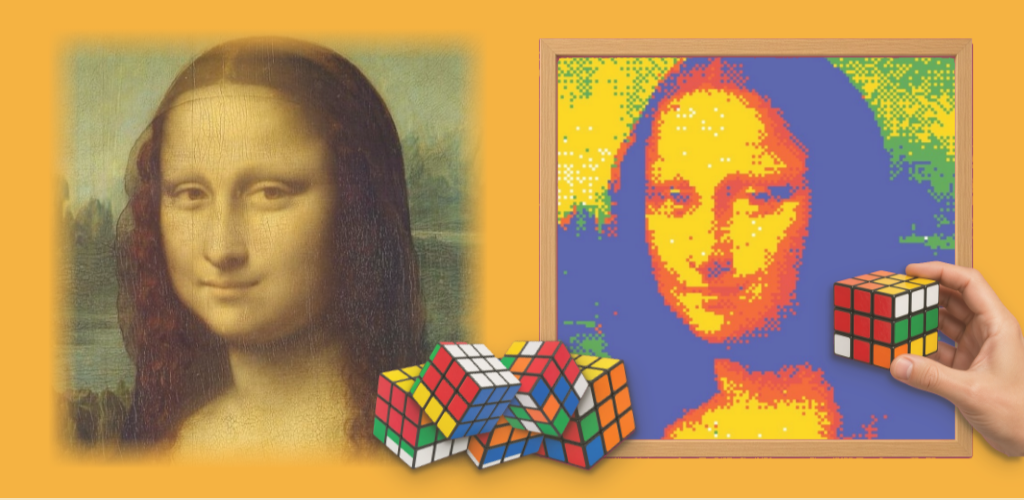
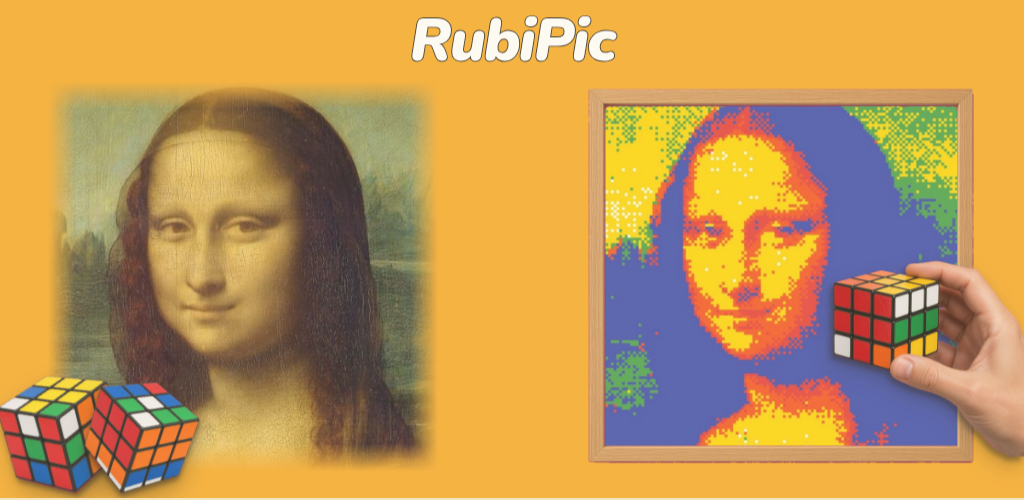
Tighten feature graphic: two cubes in the corner, RubiPic title
Reduce the cube pile from five to two, pin them to the bottom-left of
the 1024×500 board, and add a medium Nunito wordmark at the top.
Re-export the English feature PNG and contact sheet.

diff --git a/googleplay.html b/googleplay.html
@@ -23,7 +23,7 @@
 <link rel="preconnect" href="https://fonts.gstatic.com" crossorigin>
 <link href="https://fonts.googleapis.com/css2?family=Nunito:ital,wght@1,800;1,900&family=Quicksand:wght@500;600;700&display=swap" rel="stylesheet">
 
-<link rel="stylesheet" href="assets/css/styles.css?v=gp46">
+<link rel="stylesheet" href="assets/css/styles.css?v=gp47">
 </head>
 <body data-title-key="googleplay.meta.title" data-desc-key="googleplay.meta.description">
 
@@ -188,6 +188,7 @@
         </div>
 
         <div class="gp-feature gp-feature--empty" aria-label="Grafika funkcji RubiPic 1024 na 500 pikseli">
+          <p class="gp-empty-wordmark">RubiPic</p>
           <button type="button" id="gp-layer-photo" class="gp-empty-layer gp-empty-photo" aria-label="Zdjęcie źródłowe">
             <img src="assets/googleplay/layers/photo-mona.jpg?v=gp30" alt="">
           </button>
@@ -204,15 +205,6 @@
           </button>
           <button type="button" id="gp-layer-cube-b" class="gp-empty-layer gp-empty-cube gp-empty-cube--b" aria-label="Kostka Rubika B">
             <img src="assets/googleplay/layers/cube-b.png?v=gp17" alt="">
-          </button>
-          <button type="button" id="gp-layer-cube-c" class="gp-empty-layer gp-empty-cube gp-empty-cube--c" aria-label="Kostka Rubika C">
-            <img src="assets/googleplay/layers/cube-c.png?v=gp17" alt="">
-          </button>
-          <button type="button" id="gp-layer-cube-d" class="gp-empty-layer gp-empty-cube gp-empty-cube--d" aria-label="Kostka Rubika D">
-            <img src="assets/googleplay/layers/cube-d.png?v=gp17" alt="">
-          </button>
-          <button type="button" id="gp-layer-cube-e" class="gp-empty-layer gp-empty-cube gp-empty-cube--e" aria-label="Kostka Rubika E">
-            <img src="assets/googleplay/layers/cube-e.png?v=gp17" alt="">
           </button>
           <button type="button" id="gp-layer-hand" class="gp-empty-layer gp-empty-hand" aria-label="Dłoń z kostką Rubika">
             <img src="assets/googleplay/layers/hand-cube.png?v=gp17" alt="">
@@ -238,18 +230,6 @@
           <button type="button" data-gp-layer="gp-layer-cube-b">
             <img src="assets/googleplay/layers/cube-b.png?v=gp17" alt="">
             <span>Kostka B</span>
-          </button>
-          <button type="button" data-gp-layer="gp-layer-cube-c">
-            <img src="assets/googleplay/layers/cube-c.png?v=gp17" alt="">
-            <span>Kostka C</span>
-          </button>
-          <button type="button" data-gp-layer="gp-layer-cube-d">
-            <img src="assets/googleplay/layers/cube-d.png?v=gp17" alt="">
-            <span>Kostka D</span>
-          </button>
-          <button type="button" data-gp-layer="gp-layer-cube-e">
-            <img src="assets/googleplay/layers/cube-e.png?v=gp17" alt="">
-            <span>Kostka E</span>
           </button>
           <button type="button" data-gp-layer="gp-layer-hand">
             <img src="assets/googleplay/layers/hand-cube.png?v=gp17" alt="">

diff --git a/assets/css/styles.css b/assets/css/styles.css
@@ -732,8 +732,27 @@ section { padding: 64px 0; }
   container-type: inline-size;
   background: #f6a724;
   border: none;
-  --gp-art-h: 88%;
+  --gp-art-h: 78%;
   --gp-gutter: calc((100% - 85.9375%) / 3);
+}
+.gp-empty-wordmark {
+  position: absolute;
+  left: 0;
+  right: 0;
+  top: 2.6%;
+  z-index: 6;
+  margin: 0;
+  text-align: center;
+  pointer-events: none;
+  font-family: "Nunito", "Quicksand", var(--font);
+  font-style: italic;
+  font-weight: 900;
+  font-size: 5.8cqw;
+  line-height: 1;
+  letter-spacing: -0.03em;
+  color: #fff;
+  -webkit-text-stroke: 0.18cqw #211a12;
+  paint-order: stroke fill;
 }
 .gp-empty-layer {
   position: absolute;
@@ -764,7 +783,7 @@ section { padding: 64px 0; }
 }
 .gp-empty-photo {
   left: var(--gp-gutter);
-  top: 6%;
+  top: 16.5%;
   height: var(--gp-art-h);
   aspect-ratio: 1;
   z-index: 0;
@@ -788,7 +807,7 @@ section { padding: 64px 0; }
 }
 .gp-empty-artwork {
   position: absolute;
-  top: 6%;
+  top: 16.5%;
   right: var(--gp-gutter);
   height: var(--gp-art-h);
   aspect-ratio: 1;
@@ -841,37 +860,19 @@ section { padding: 64px 0; }
 }
 .gp-empty-cube--a {
   width: 11.25%;
-  right: 38.1%;
-  bottom: 5.2%;
-  transform: rotate(-12deg);
+  left: 0.4%;
+  bottom: 0.6%;
+  transform: rotate(-14deg);
 }
 .gp-empty-cube--b {
-  width: 10.625%;
-  right: 46.1%;
-  bottom: 5%;
+  width: 10.4%;
+  left: 8.4%;
+  bottom: 0.4%;
   transform: rotate(18deg);
-}
-.gp-empty-cube--c {
-  width: 9.69%;
-  right: 42.8%;
-  bottom: 11%;
-  transform: rotate(-28deg);
-}
-.gp-empty-cube--d {
-  width: 10%;
-  right: 53.6%;
-  bottom: 5.4%;
-  transform: rotate(8deg);
-}
-.gp-empty-cube--e {
-  width: 9.375%;
-  right: 50.1%;
-  bottom: 11.4%;
-  transform: rotate(32deg);
 }
 .gp-layer-picker {
   display: grid;
-  grid-template-columns: repeat(5, 1fr);
+  grid-template-columns: repeat(6, 1fr);
   gap: 10px;
   max-width: 1024px;
   margin: 18px auto 0;
